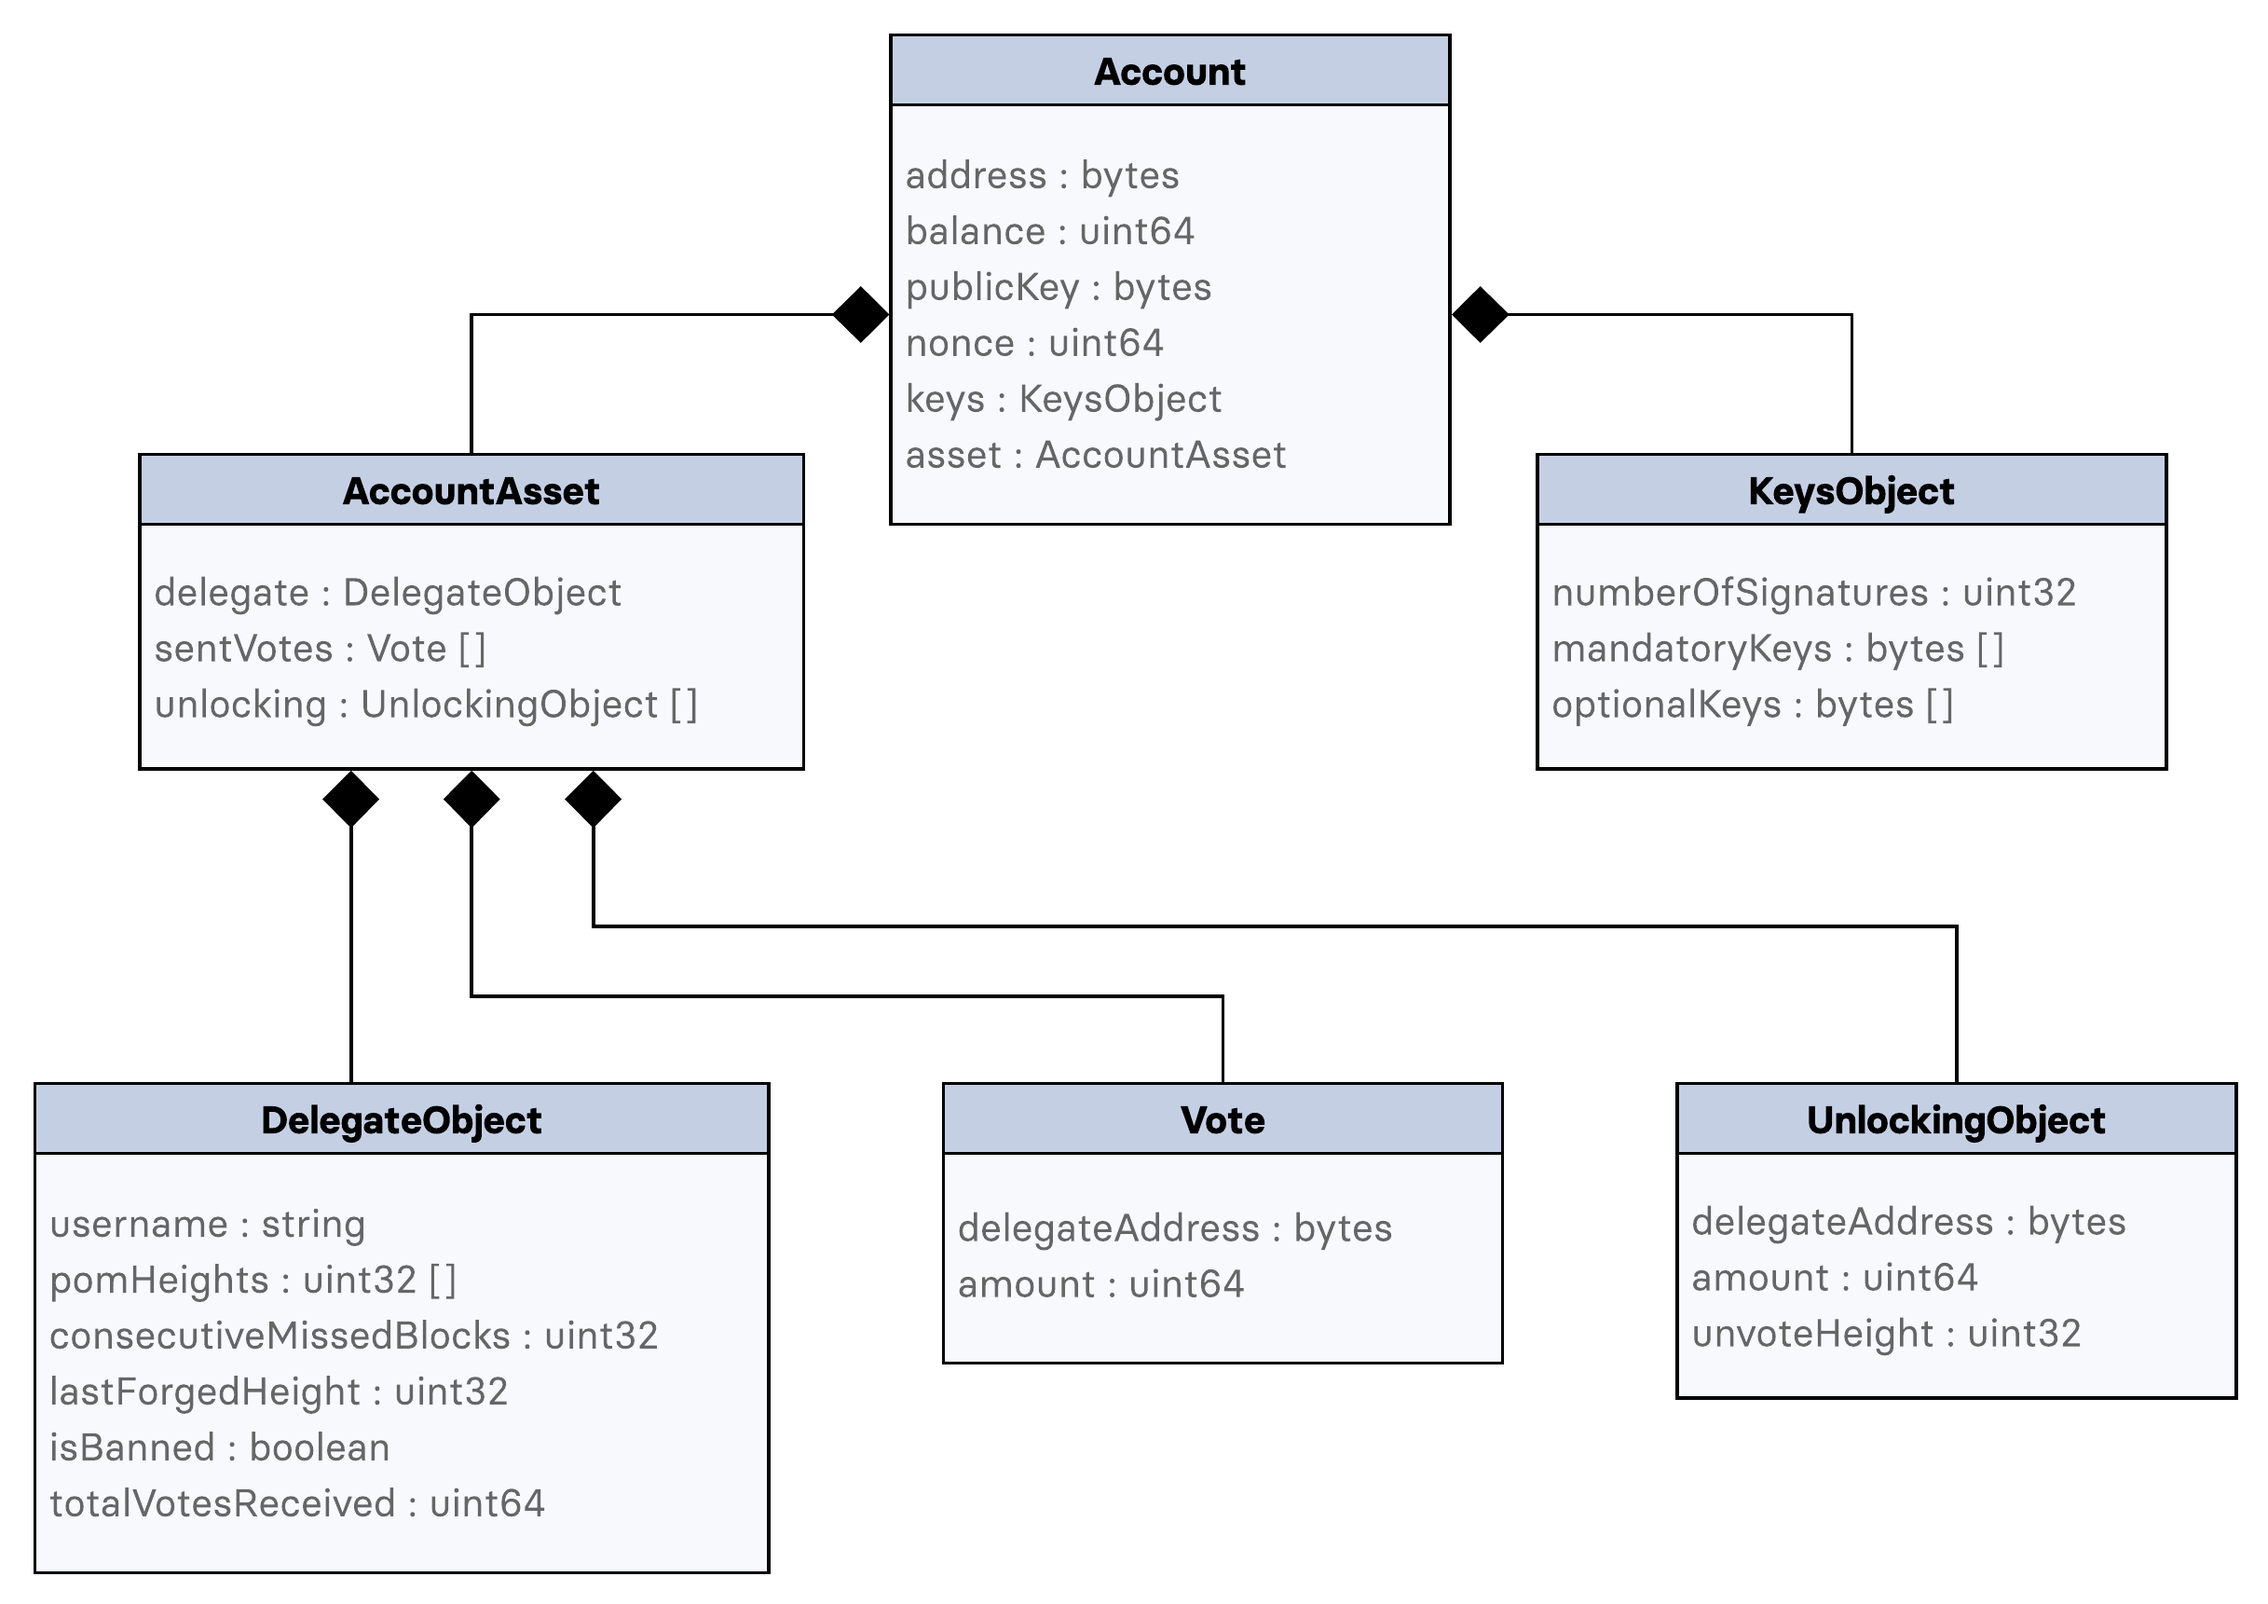
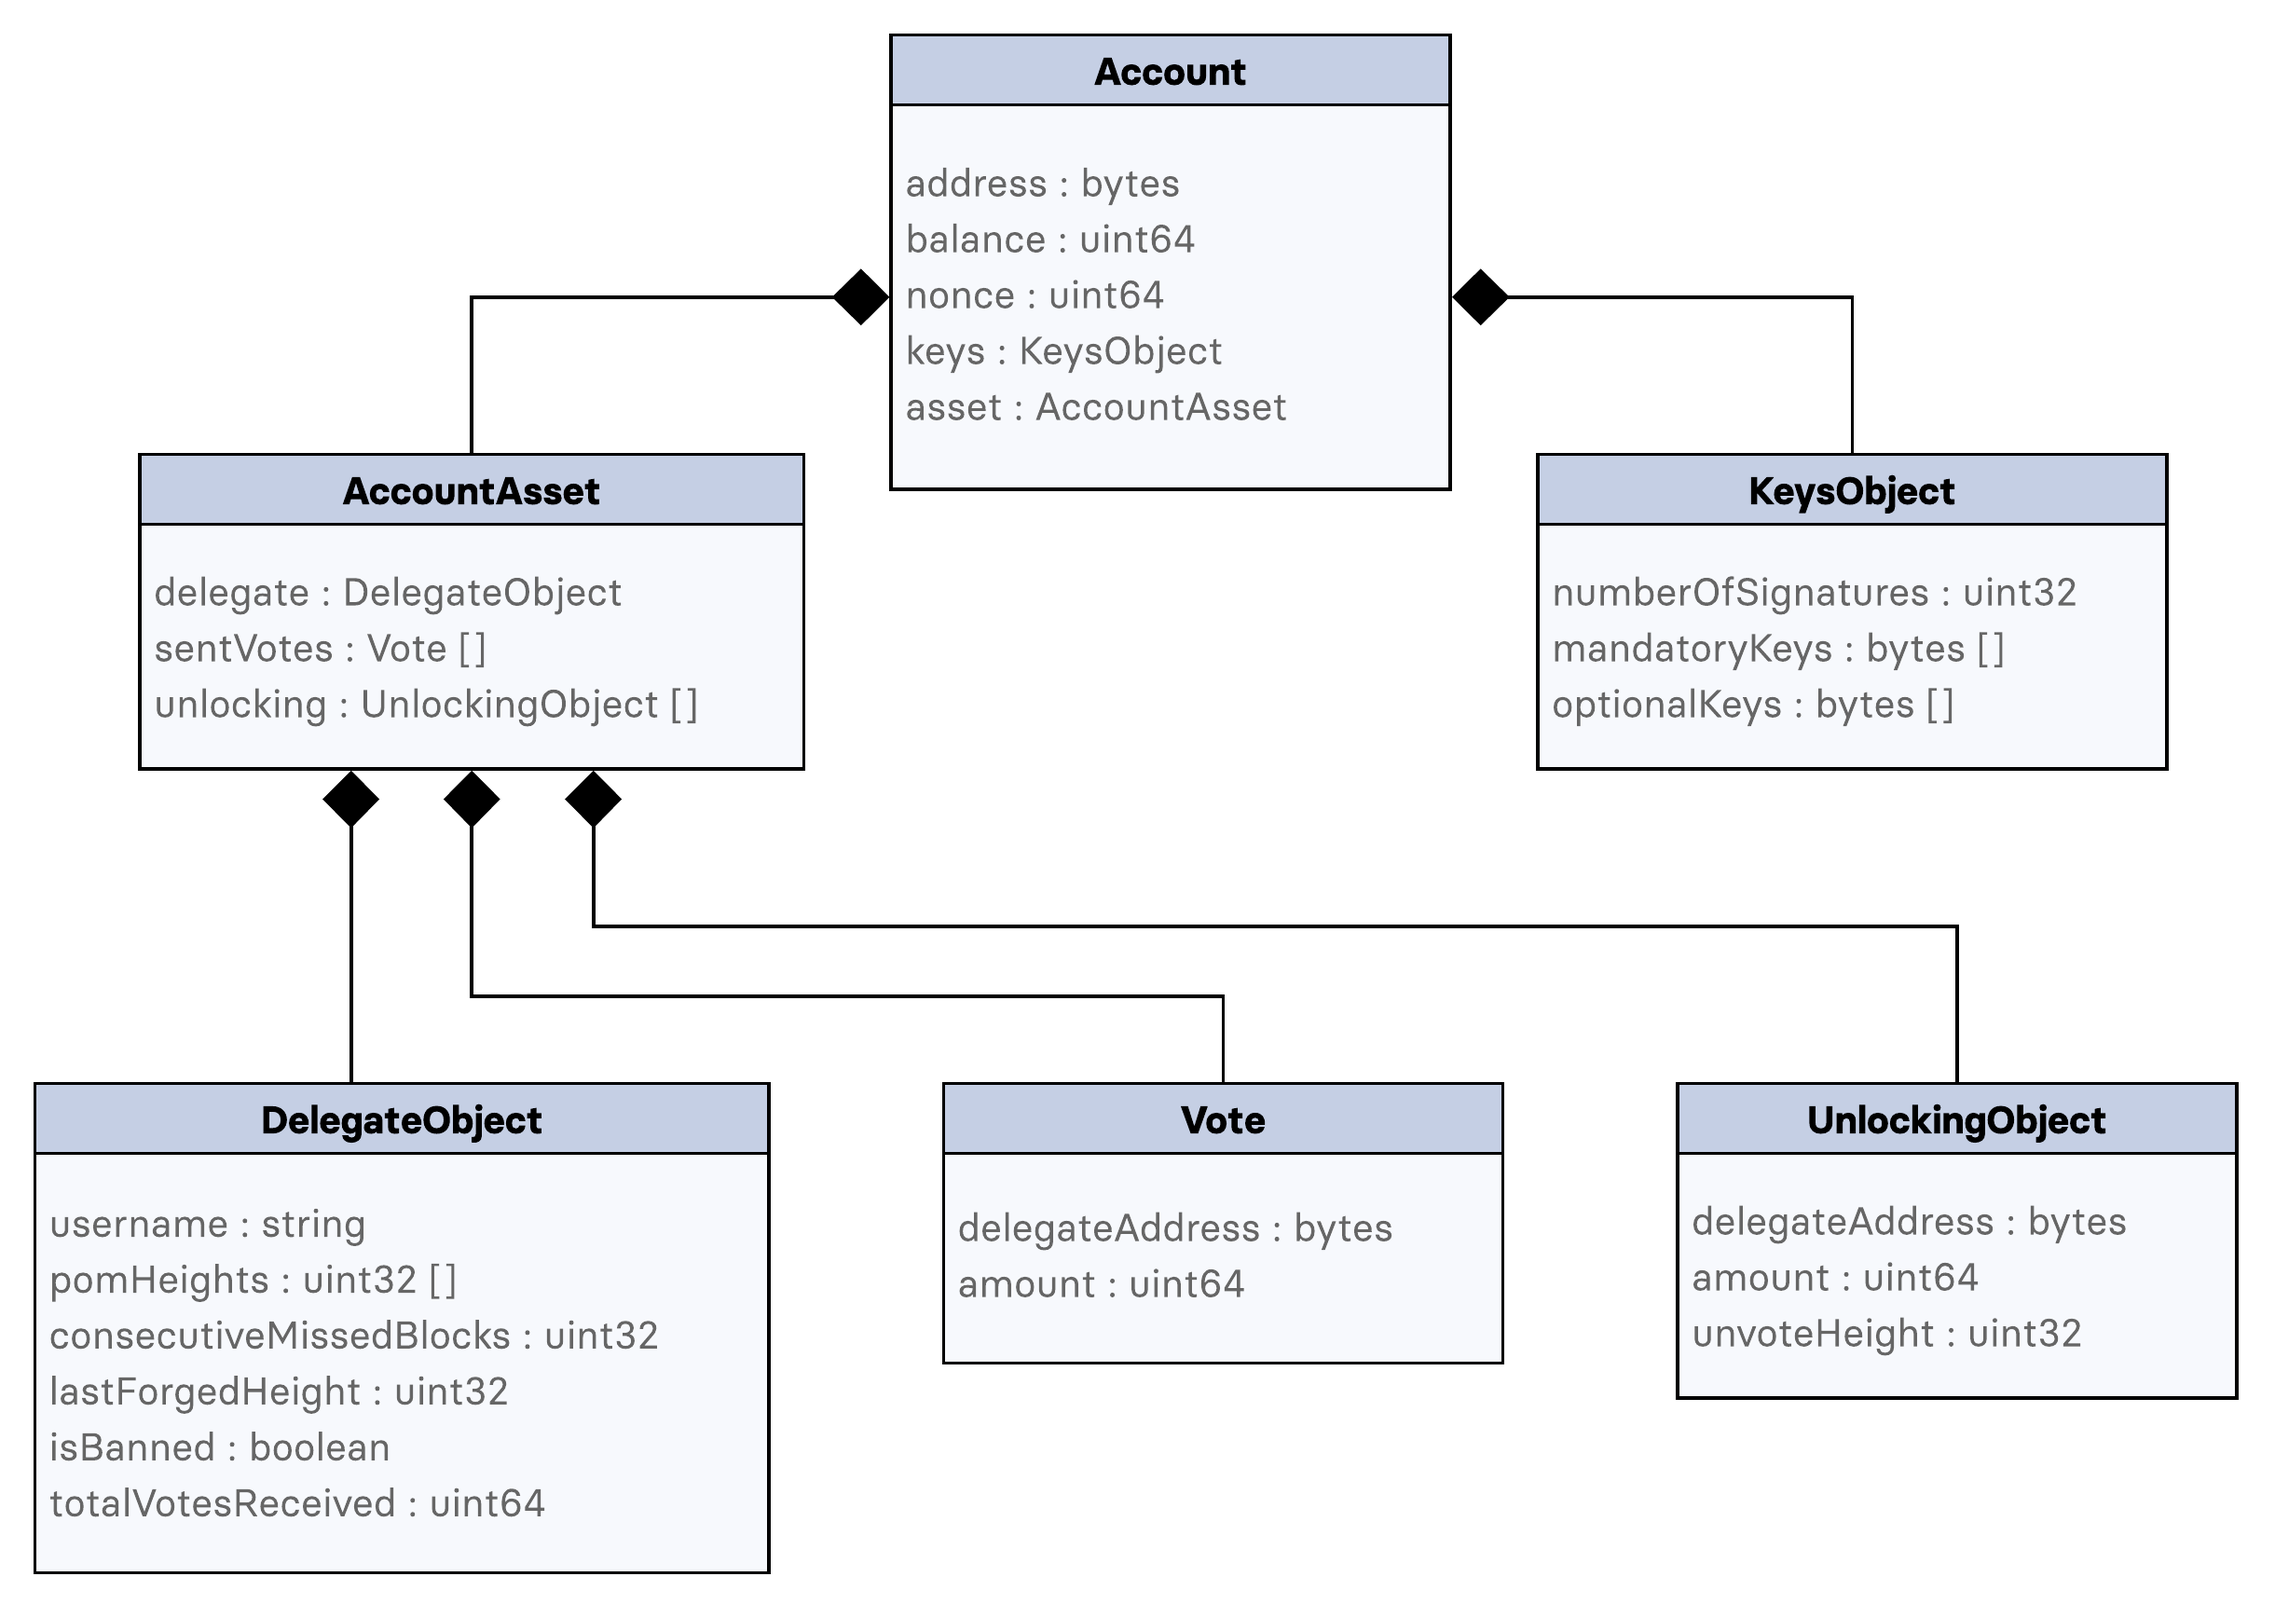
updated image

diff --git a/proposals/lip-0030.md b/proposals/lip-0030.md
@@ -40,8 +40,6 @@ After [LIP 0018 "Use base32 encoding of long hash of public key plus checksum fo
 
 Note that the public key is not serialized as part of the account. Instead, the `senderPublicKey` property of a transaction is used to calculate the `address` property used to access the account.
 
-<!-- 3. `publicKey`: The account public key that generated the `address`. Notice that this property has a non-empty value if and only if the account issued at least one transaction included in the blockchain. This value is either 0 bytes or 32 bytes long. -->
-
 ## Specification
 
 <img alt="Account Schema" src="lip-0030/account_schema.png" width="800">
